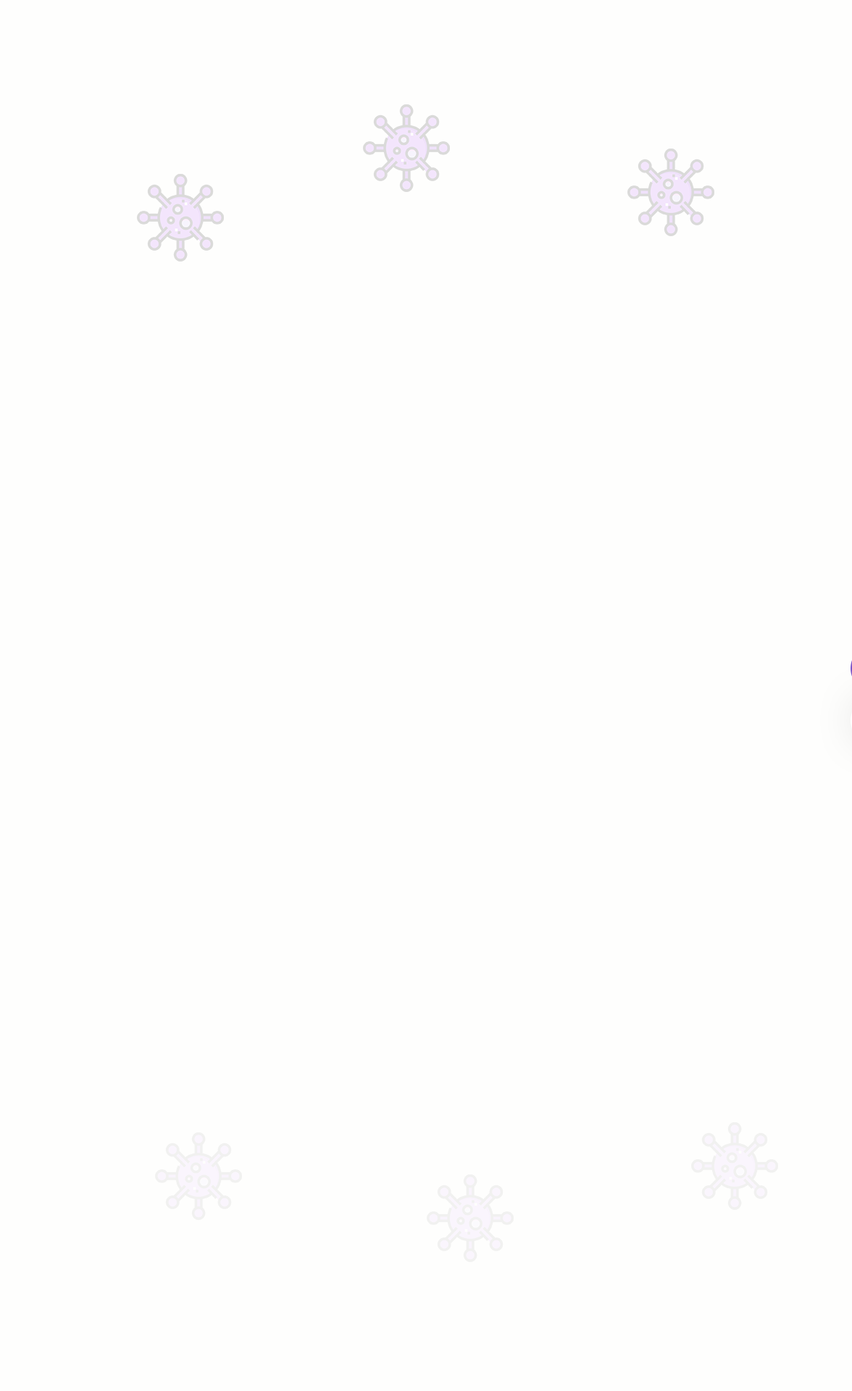
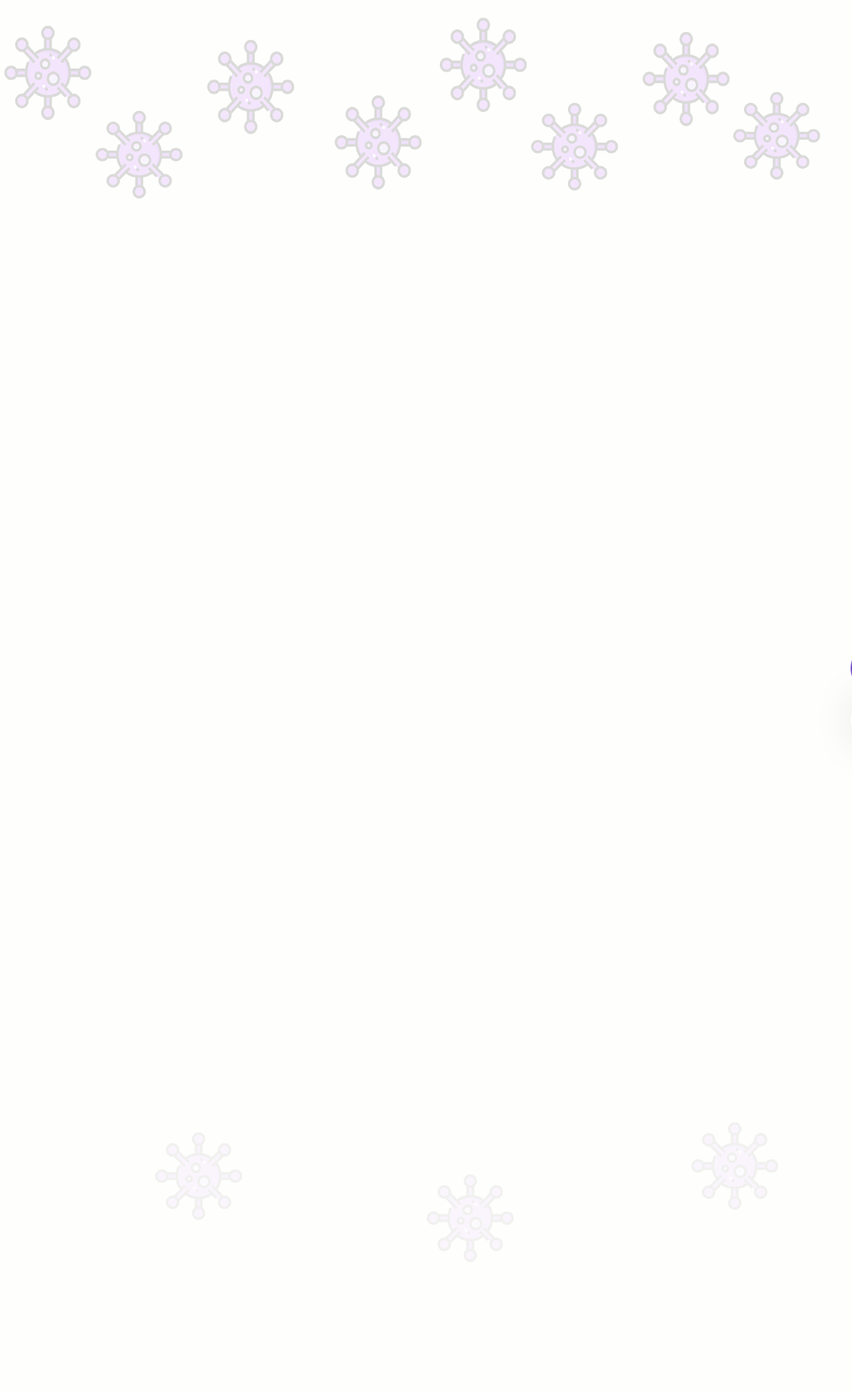
change background etc.

diff --git a/dist/sw.js b/dist/sw.js
@@ -1,1 +1,1 @@
-!function(e){var r={};function t(n){if(r[n])return r[n].exports;var o=r[n]={i:n,l:!1,exports:{}};return e[n].call(o.exports,o,o.exports,t),o.l=!0,o.exports}t.m=e,t.c=r,t.d=function(e,r,n){t.o(e,r)||Object.defineProperty(e,r,{enumerable:!0,get:n})},t.r=function(e){"undefined"!=typeof Symbol&&Symbol.toStringTag&&Object.defineProperty(e,Symbol.toStringTag,{value:"Module"}),Object.defineProperty(e,"__esModule",{value:!0})},t.t=function(e,r){if(1&r&&(e=t(e)),8&r)return e;if(4&r&&"object"==typeof e&&e&&e.__esModule)return e;var n=Object.create(null);if(t.r(n),Object.defineProperty(n,"default",{enumerable:!0,value:e}),2&r&&"string"!=typeof e)for(var o in e)t.d(n,o,function(r){return e[r]}.bind(null,o));return n},t.n=function(e){var r=e&&e.__esModule?function(){return e.default}:function(){return e};return t.d(r,"a",r),r},t.o=function(e,r){return Object.prototype.hasOwnProperty.call(e,r)},t.p="",t(t.s=0)}([function(e,r){"workbox"in self&&workbox.precaching.precacheAndRoute([{'revision':'e9ff9d0320f7a036a8ff0b5df3efd935','url':'1.js'},{'revision':'b1f549aff7d8498abda0363206ac23c2','url':'2.js'},{'revision':'3ea5ccfa243b6e74066d1299b17ecc9b','url':'3.js'},{'revision':'daf22f2c82bd36fa13f0e3fe9b8be51d','url':'css/styles.css'},{'revision':'bd551f56ce2be3eba2812e605ab4f5b2','url':'css/x/bootstrap.css'},{'revision':'f7245521b4bfad97e8404de1525a6f05','url':'css/x/responsive.css'},{'revision':'edff85f6d0238357f6a824ae19991203','url':'css/x/style.css'},{'revision':'3d9323df26240d7ff6c3507a8c037deb','url':'data/blogdata.json'},{'revision':'8a58be594bb1e7dded347d420a0790d9','url':'data/faq.json'},{'revision':'a38c8dbb4e1c737807290f852644129e','url':'data/schedule.json'},{'revision':'85bfe6f80f89775d91782b6edd6c2ce8','url':'data/speakers.json'},{'revision':'ca5f383d547ed33b2fcbf8de8939214b','url':'data/videosdata.json'},{'revision':'8dcb323d5e8005a21153de265e68a318','url':'img/bg/bug-stripe-horz-bg.png'},{'revision':'6e9f5617b716a9fd78fd1a185a55ec88','url':'img/bg/news-bg.png'},{'revision':'4c5c01e71b85820d4b2a4fd65285de25','url':'img/bg/paper.gif'},{'revision':'d8219b40840dcd5b61d71afb30afa626','url':'img/bloggers/WikiAtlas_Ganesh_Arun_Planemad.jpg'},{'revision':'30e99902937cace23bcceacc88a9f0ef','url':'img/bloggers/WikiAtlas_Lopez_Edouard_Lyhana8.png'},{'revision':'917a6eaff2ce46cb52988c7afb7b9aba','url':'img/bloggers/WikiAtlas_Lopez_Hugo_Yug.png'},{'revision':'0d4fa928386b14974bf7513677278ef5','url':'img/icons/favicon.png'},{'revision':'2e7327d709d72dcadb463772466a5eee','url':'img/icons/icon-1024x1024.png'},{'revision':'34ad0fa20eb37378acaa4e978a114854','url':'img/icons/icon-128x128.png'},{'revision':'185ed67f84fbe116423eeecde5507a59','url':'img/icons/icon-144x144.png'},{'revision':'6ce106dc33b9e06bc44cf4467193f9b7','url':'img/icons/icon-152x152.png'},{'revision':'d98f272e437f181a8e4a495fd70b35f1','url':'img/icons/icon-192x192.png'},{'revision':'a9ad438b6ee1a417636e115838954923','url':'img/icons/icon-384x384.png'},{'revision':'2fdbfe87de17fd61fbd737682140aba4','url':'img/icons/icon-512x512.png'},{'revision':'f5c850fb7799776c8a82d33ab03505a5','url':'img/icons/icon-72x72.png'},{'revision':'1b7bab36fe7ab88660465b3bedcbfa05','url':'img/icons/icon-96x96.png'},{'revision':'556e9ff845b7dd0c62dcdbbb00babb4b','url':'img/icons/loading.gif'},{'revision':'9c38962dcce6776be2cfb827ed13e4ea','url':'img/icons/logo.png'},{'revision':'37589698c4e74e6f371d25d01056f76e','url':'img/speakers/andy-crawford.jpg'},{'revision':'dafb95cd12b59752606f082683700cc7','url':'img/speakers/brooke-singh.jpg'},{'revision':'dc02fe7e25e7f0e28a4dd628d573ad52','url':'img/speakers/clara-wilson.jpg'},{'revision':'73504359b8894fe4614c3d2221ed25ec','url':'img/speakers/lauri-erkkila.jpg'},{'revision':'32a92aa7b07407faf9df10ece7dc3f4f','url':'img/speakers/liam-ramirez.jpg'},{'revision':'b0030813aa706d6fec4c6220454bbeac','url':'img/speakers/melissa-de-sousa.jpg'},{'revision':'b2fce1543a6073a92e7c43755760ec91','url':'img/speakers/nino-durand.jpg'},{'revision':'b1566bee0ab3959050f638b8c3079c50','url':'img/speakers/trinita-rodrigues.jpg'},{'revision':'2b79786aefbe8c03d5247fa2bb89e176','url':'index.html'},{'revision':'3f2e7784bae77f33b0e3c15fc5b1bf1c','url':'js/app.js'},{'revision':'0a6e846b954e345951e710cd6ce3440e','url':'js/jquery-2.0.3.min.js'},{'revision':'304d4308252ecd0e472c26eb2c6e8139','url':'js/utility.js'},{'revision':'7f827fe484ec04346553202782b0664b','url':'js/x/bootstrap.js'},{'revision':'6fa979718eaf37bf49e9d655f8bad1b5','url':'js/x/custom.js'},{'revision':'2f772fed444d5489079f275bd01e26cc','url':'js/x/jquery-3.4.1.min.js'},{'revision':'7ccd20f9038b7a699cf3f0984b189837','url':'main.css'},{'revision':'ee4c132862b69e8171a4ab88e039ec5e','url':'main.js'},{'revision':'4f691bbd7834b3a3b066b6d4c7b8c177','url':'manifest.webmanifest'},{'revision':'562d0fbc57e7fde465091e0f3ebaa792','url':'pages/about.html'},{'revision':'f3baba19dd917b8c5d447df2f7035cf6','url':'pages/arabic.html'},{'revision':'fc850defb5b85d18f91160cd9c095397','url':'pages/blog-old.html'},{'revision':'e8b12c3c146a096241f5f3aa3aeab114','url':'pages/blog.html'},{'revision':'aa614623c526e39c996f4bce161f35f7','url':'pages/blognew.html'},{'revision':'424a576c82faaab5ef5ff98794b84e0a','url':'pages/code-of-conduct.html'},{'revision':'19ed384ef5a110687c04ca0f8ecbb552','url':'pages/code-of-conduct.js'},{'revision':'ee6278c59f765a91de9c0bc6463b4336','url':'pages/contact.html'},{'revision':'c4eb2cc73946d021bc1aeaae6c2fc56c','url':'pages/embed.html'},{'revision':'d41d8cd98f00b204e9800998ecf8427e','url':'pages/embed.js'},{'revision':'bcdcec4df4acb46a457bc75f791409e9','url':'pages/httpweb.html'},{'revision':'d41d8cd98f00b204e9800998ecf8427e','url':'pages/httpweb.js'},{'revision':'31459790a69ecb9a6f53e89d2ee4fd9c','url':'pages/news.html'},{'revision':'9c8e7606e689ab44249b32ba1b51f08a','url':'pages/news.js'},{'revision':'5f2615c697b082a52ab3c1a326e88453','url':'pages/resources.html'},{'revision':'11b772cddf9b316dc84ba29ee6c9d356','url':'pages/schedule.html'},{'revision':'ffa296c9e2828e9f43bbbeca1c4692c8','url':'pages/schedule.js'},{'revision':'5b38e6c4768aeef35bf62956af934e8b','url':'pages/speakers.html'},{'revision':'dd259011780a19e98663c80a2bb61bb4','url':'pages/speakers.js'},{'revision':'85bfe6f80f89775d91782b6edd6c2ce8','url':'pages/speakers.json'},{'revision':'2ad94f0b18796055a07abee7a9807f94','url':'qafco/New-QP-Annex-Clinic-in-MIC.pdf'},{'revision':'6078cba531c50201259a64e2e018184a','url':'qafco/Opening-of-Frontline-clinic-in-MES-RasLaffan-for-COVID-19.pdf'},{'revision':'b455d0566579971964ac99b081bea007','url':'qafco/POSTER-COVID-19-5-TIPS.png'}])}]);
+!function(e){var r={};function t(n){if(r[n])return r[n].exports;var o=r[n]={i:n,l:!1,exports:{}};return e[n].call(o.exports,o,o.exports,t),o.l=!0,o.exports}t.m=e,t.c=r,t.d=function(e,r,n){t.o(e,r)||Object.defineProperty(e,r,{enumerable:!0,get:n})},t.r=function(e){"undefined"!=typeof Symbol&&Symbol.toStringTag&&Object.defineProperty(e,Symbol.toStringTag,{value:"Module"}),Object.defineProperty(e,"__esModule",{value:!0})},t.t=function(e,r){if(1&r&&(e=t(e)),8&r)return e;if(4&r&&"object"==typeof e&&e&&e.__esModule)return e;var n=Object.create(null);if(t.r(n),Object.defineProperty(n,"default",{enumerable:!0,value:e}),2&r&&"string"!=typeof e)for(var o in e)t.d(n,o,function(r){return e[r]}.bind(null,o));return n},t.n=function(e){var r=e&&e.__esModule?function(){return e.default}:function(){return e};return t.d(r,"a",r),r},t.o=function(e,r){return Object.prototype.hasOwnProperty.call(e,r)},t.p="",t(t.s=0)}([function(e,r){"workbox"in self&&workbox.precaching.precacheAndRoute([{'revision':'9224be4670d344b1c73cad817d5e60a4','url':'1.js'},{'revision':'b1f549aff7d8498abda0363206ac23c2','url':'2.js'},{'revision':'3ea5ccfa243b6e74066d1299b17ecc9b','url':'3.js'},{'revision':'87e734afce51564980aa0994705a6674','url':'css/styles.css'},{'revision':'bd551f56ce2be3eba2812e605ab4f5b2','url':'css/x/bootstrap.css'},{'revision':'f7245521b4bfad97e8404de1525a6f05','url':'css/x/responsive.css'},{'revision':'edff85f6d0238357f6a824ae19991203','url':'css/x/style.css'},{'revision':'3d9323df26240d7ff6c3507a8c037deb','url':'data/blogdata.json'},{'revision':'0f0b5cbf39e1e9070aeba4fc795cd382','url':'data/faq.json'},{'revision':'a38c8dbb4e1c737807290f852644129e','url':'data/schedule.json'},{'revision':'85bfe6f80f89775d91782b6edd6c2ce8','url':'data/speakers.json'},{'revision':'ca5f383d547ed33b2fcbf8de8939214b','url':'data/videosdata.json'},{'revision':'40ef2e72233e461949c4e517b4da785f','url':'img/bg/bug-stripe-horz-bg.png'},{'revision':'e6804cf82c74354114c3b48e6850ff39','url':'img/bg/news-bg.png'},{'revision':'4c5c01e71b85820d4b2a4fd65285de25','url':'img/bg/paper.gif'},{'revision':'d8219b40840dcd5b61d71afb30afa626','url':'img/bloggers/WikiAtlas_Ganesh_Arun_Planemad.jpg'},{'revision':'30e99902937cace23bcceacc88a9f0ef','url':'img/bloggers/WikiAtlas_Lopez_Edouard_Lyhana8.png'},{'revision':'917a6eaff2ce46cb52988c7afb7b9aba','url':'img/bloggers/WikiAtlas_Lopez_Hugo_Yug.png'},{'revision':'0d4fa928386b14974bf7513677278ef5','url':'img/icons/favicon.png'},{'revision':'2e7327d709d72dcadb463772466a5eee','url':'img/icons/icon-1024x1024.png'},{'revision':'34ad0fa20eb37378acaa4e978a114854','url':'img/icons/icon-128x128.png'},{'revision':'185ed67f84fbe116423eeecde5507a59','url':'img/icons/icon-144x144.png'},{'revision':'6ce106dc33b9e06bc44cf4467193f9b7','url':'img/icons/icon-152x152.png'},{'revision':'d98f272e437f181a8e4a495fd70b35f1','url':'img/icons/icon-192x192.png'},{'revision':'a9ad438b6ee1a417636e115838954923','url':'img/icons/icon-384x384.png'},{'revision':'2fdbfe87de17fd61fbd737682140aba4','url':'img/icons/icon-512x512.png'},{'revision':'f5c850fb7799776c8a82d33ab03505a5','url':'img/icons/icon-72x72.png'},{'revision':'1b7bab36fe7ab88660465b3bedcbfa05','url':'img/icons/icon-96x96.png'},{'revision':'556e9ff845b7dd0c62dcdbbb00babb4b','url':'img/icons/loading.gif'},{'revision':'9c38962dcce6776be2cfb827ed13e4ea','url':'img/icons/logo.png'},{'revision':'37589698c4e74e6f371d25d01056f76e','url':'img/speakers/andy-crawford.jpg'},{'revision':'dafb95cd12b59752606f082683700cc7','url':'img/speakers/brooke-singh.jpg'},{'revision':'dc02fe7e25e7f0e28a4dd628d573ad52','url':'img/speakers/clara-wilson.jpg'},{'revision':'73504359b8894fe4614c3d2221ed25ec','url':'img/speakers/lauri-erkkila.jpg'},{'revision':'32a92aa7b07407faf9df10ece7dc3f4f','url':'img/speakers/liam-ramirez.jpg'},{'revision':'b0030813aa706d6fec4c6220454bbeac','url':'img/speakers/melissa-de-sousa.jpg'},{'revision':'b2fce1543a6073a92e7c43755760ec91','url':'img/speakers/nino-durand.jpg'},{'revision':'b1566bee0ab3959050f638b8c3079c50','url':'img/speakers/trinita-rodrigues.jpg'},{'revision':'7bbb94678c2b31297563395c6c7022cd','url':'index.html'},{'revision':'3f2e7784bae77f33b0e3c15fc5b1bf1c','url':'js/app.js'},{'revision':'0a6e846b954e345951e710cd6ce3440e','url':'js/jquery-2.0.3.min.js'},{'revision':'304d4308252ecd0e472c26eb2c6e8139','url':'js/utility.js'},{'revision':'7f827fe484ec04346553202782b0664b','url':'js/x/bootstrap.js'},{'revision':'6fa979718eaf37bf49e9d655f8bad1b5','url':'js/x/custom.js'},{'revision':'2f772fed444d5489079f275bd01e26cc','url':'js/x/jquery-3.4.1.min.js'},{'revision':'ce0f6dc0b103262ae096a5ff170a61fa','url':'main.css'},{'revision':'d7d3ae0dba03d76eee977886d062dbf2','url':'main.js'},{'revision':'4f691bbd7834b3a3b066b6d4c7b8c177','url':'manifest.webmanifest'},{'revision':'562d0fbc57e7fde465091e0f3ebaa792','url':'pages/about.html'},{'revision':'f3baba19dd917b8c5d447df2f7035cf6','url':'pages/arabic.html'},{'revision':'fc850defb5b85d18f91160cd9c095397','url':'pages/blog-old.html'},{'revision':'e8b12c3c146a096241f5f3aa3aeab114','url':'pages/blog.html'},{'revision':'aa614623c526e39c996f4bce161f35f7','url':'pages/blognew.html'},{'revision':'424a576c82faaab5ef5ff98794b84e0a','url':'pages/code-of-conduct.html'},{'revision':'19ed384ef5a110687c04ca0f8ecbb552','url':'pages/code-of-conduct.js'},{'revision':'ee6278c59f765a91de9c0bc6463b4336','url':'pages/contact.html'},{'revision':'c4eb2cc73946d021bc1aeaae6c2fc56c','url':'pages/embed.html'},{'revision':'d41d8cd98f00b204e9800998ecf8427e','url':'pages/embed.js'},{'revision':'bcdcec4df4acb46a457bc75f791409e9','url':'pages/httpweb.html'},{'revision':'d41d8cd98f00b204e9800998ecf8427e','url':'pages/httpweb.js'},{'revision':'4de92e64650f56bf7c93948f822c1b55','url':'pages/news.html'},{'revision':'28a8fe5c4ea91ad296519ded4c200287','url':'pages/news.js'},{'revision':'1a66d23c59fea71152313975fd84e6f6','url':'pages/resources.html'},{'revision':'11b772cddf9b316dc84ba29ee6c9d356','url':'pages/schedule.html'},{'revision':'ffa296c9e2828e9f43bbbeca1c4692c8','url':'pages/schedule.js'},{'revision':'5b38e6c4768aeef35bf62956af934e8b','url':'pages/speakers.html'},{'revision':'dd259011780a19e98663c80a2bb61bb4','url':'pages/speakers.js'},{'revision':'85bfe6f80f89775d91782b6edd6c2ce8','url':'pages/speakers.json'},{'revision':'2ad94f0b18796055a07abee7a9807f94','url':'qafco/New-QP-Annex-Clinic-in-MIC.pdf'},{'revision':'6078cba531c50201259a64e2e018184a','url':'qafco/Opening-of-Frontline-clinic-in-MES-RasLaffan-for-COVID-19.pdf'},{'revision':'b455d0566579971964ac99b081bea007','url':'qafco/POSTER-COVID-19-5-TIPS.png'}])}]);

diff --git a/dist/main.js b/dist/main.js
@@ -1,1 +1,1 @@
-!function(e){function t(t){for(var r,i,o=t[0],s=t[1],a=0,l=[];a<o.length;a++)i=o[a],Object.prototype.hasOwnProperty.call(n,i)&&n[i]&&l.push(n[i][0]),n[i]=0;for(r in s)Object.prototype.hasOwnProperty.call(s,r)&&(e[r]=s[r]);for(c&&c(t);l.length;)l.shift()()}var r={},n={0:0};function i(t){if(r[t])return r[t].exports;var n=r[t]={i:t,l:!1,exports:{}};return e[t].call(n.exports,n,n.exports,i),n.l=!0,n.exports}i.e=function(e){var t=[],r=n[e];if(0!==r)if(r)t.push(r[2]);else{var o=new Promise((function(t,i){r=n[e]=[t,i]}));t.push(r[2]=o);var s,a=document.createElement("script");a.charset="utf-8",a.timeout=120,i.nc&&a.setAttribute("nonce",i.nc),a.src=function(e){return i.p+""+({}[e]||e)+".js"}(e);var c=new Error;s=function(t){a.onerror=a.onload=null,clearTimeout(l);var r=n[e];if(0!==r){if(r){var i=t&&("load"===t.type?"missing":t.type),o=t&&t.target&&t.target.src;c.message="Loading chunk "+e+" failed.\n("+i+": "+o+")",c.name="ChunkLoadError",c.type=i,c.request=o,r[1](c)}n[e]=void 0}};var l=setTimeout((function(){s({type:"timeout",target:a})}),12e4);a.onerror=a.onload=s,document.head.appendChild(a)}return Promise.all(t)},i.m=e,i.c=r,i.d=function(e,t,r){i.o(e,t)||Object.defineProperty(e,t,{enumerable:!0,get:r})},i.r=function(e){"undefined"!=typeof Symbol&&Symbol.toStringTag&&Object.defineProperty(e,Symbol.toStringTag,{value:"Module"}),Object.defineProperty(e,"__esModule",{value:!0})},i.t=function(e,t){if(1&t&&(e=i(e)),8&t)return e;if(4&t&&"object"==typeof e&&e&&e.__esModule)return e;var r=Object.create(null);if(i.r(r),Object.defineProperty(r,"default",{enumerable:!0,value:e}),2&t&&"string"!=typeof e)for(var n in e)i.d(r,n,function(t){return e[t]}.bind(null,n));return r},i.n=function(e){var t=e&&e.__esModule?function(){return e.default}:function(){return e};return i.d(t,"a",t),t},i.o=function(e,t){return Object.prototype.hasOwnProperty.call(e,t)},i.p="",i.oe=function(e){throw console.error(e),e};var o=window.webpackJsonp=window.webpackJsonp||[],s=o.push.bind(o);o.push=t,o=o.slice();for(var a=0;a<o.length;a++)t(o[a]);var c=s;i(i.s=0)}([function(e,t,r){"use strict";r.r(t);r(1);class n{constructor(){this.speakersDiv=document.querySelector(".speakers"),this.scheduleDiv=document.querySelector(".schedule"),this.faqDiv=document.querySelector(".faq"),this.init()}async init(){await this.loadSpeakers(),this.loadSchedule(),this.loadFaq(),document.querySelector("#speakers").style.display="none",document.querySelector("#schedule").style.display="none",document.querySelector("#code-of-conduct").style.display="none",document.querySelector("#videos").style.display="none",document.querySelector("#faq").style.display="none",document.querySelector("#resources").style.display="none",document.querySelector("#about").style.display="none",this.registerSW()}async loadSpeakers(){this.speakers=(await r.e(3).then(r.t.bind(null,2,3))).default,this.speakersDiv.innerHTML=this.speakers.map(this.toSpeakerBlock).join("\n")}async loadSchedule(){const e=(await r.e(2).then(r.t.bind(null,3,3))).default;this.schedule=e.map(this.addSpeakerDetails,this),this.scheduleDiv.innerHTML=this.schedule.map(this.toScheduleBlock).join("\n")}async loadFaq(){const e=(await r.e(1).then(r.t.bind(null,4,3))).default;this.faq=e.map(this.addSpeakerDetails,this),this.faqDiv.innerHTML=this.faq.map(this.toScheduleBlock).join("\n")}toSpeakerBlock(e){return`\n        <div class="speaker">\n          <img src="${e.picture}" alt="${e.name}">\n          <div>${e.name}</div>\n        </div>`}toScheduleBlock(e){return`\n      <div class="schedule-item ${e.category}">\n        <div class="title-and-time">\n          <div class="time">${e.startTime}</div>\n          <div class="title-and-speaker">\n            <div class="title">${e.title}</div>\n            <div class="speaker">${e.speaker?e.speaker.name:"&nbsp;"}</div>\n          </div>\n        </div>\n        <p class="description">${e.description}</p>\n      </div>\n    `}addSpeakerDetails(e){return e.speakerId?Object.assign({},e,{speaker:this.speakers.find(t=>t.id===e.speakerId)}):Object.assign({},e)}async registerSW(){if("serviceWorker"in navigator)try{await navigator.serviceWorker.register("./sw.js")}catch(e){alert("ServiceWorker registration failed. Sorry about that.")}else document.querySelector(".alert").removeAttribute("hidden")}}window.addEventListener("load",e=>{new n})},function(e,t,r){}]);
+!function(e){function t(t){for(var n,i,s=t[0],a=t[1],o=0,c=[];o<s.length;o++)i=s[o],Object.prototype.hasOwnProperty.call(r,i)&&r[i]&&c.push(r[i][0]),r[i]=0;for(n in a)Object.prototype.hasOwnProperty.call(a,n)&&(e[n]=a[n]);for(l&&l(t);c.length;)c.shift()()}var n={},r={0:0};function i(t){if(n[t])return n[t].exports;var r=n[t]={i:t,l:!1,exports:{}};return e[t].call(r.exports,r,r.exports,i),r.l=!0,r.exports}i.e=function(e){var t=[],n=r[e];if(0!==n)if(n)t.push(n[2]);else{var s=new Promise((function(t,i){n=r[e]=[t,i]}));t.push(n[2]=s);var a,o=document.createElement("script");o.charset="utf-8",o.timeout=120,i.nc&&o.setAttribute("nonce",i.nc),o.src=function(e){return i.p+""+({}[e]||e)+".js"}(e);var l=new Error;a=function(t){o.onerror=o.onload=null,clearTimeout(c);var n=r[e];if(0!==n){if(n){var i=t&&("load"===t.type?"missing":t.type),s=t&&t.target&&t.target.src;l.message="Loading chunk "+e+" failed.\n("+i+": "+s+")",l.name="ChunkLoadError",l.type=i,l.request=s,n[1](l)}r[e]=void 0}};var c=setTimeout((function(){a({type:"timeout",target:o})}),12e4);o.onerror=o.onload=a,document.head.appendChild(o)}return Promise.all(t)},i.m=e,i.c=n,i.d=function(e,t,n){i.o(e,t)||Object.defineProperty(e,t,{enumerable:!0,get:n})},i.r=function(e){"undefined"!=typeof Symbol&&Symbol.toStringTag&&Object.defineProperty(e,Symbol.toStringTag,{value:"Module"}),Object.defineProperty(e,"__esModule",{value:!0})},i.t=function(e,t){if(1&t&&(e=i(e)),8&t)return e;if(4&t&&"object"==typeof e&&e&&e.__esModule)return e;var n=Object.create(null);if(i.r(n),Object.defineProperty(n,"default",{enumerable:!0,value:e}),2&t&&"string"!=typeof e)for(var r in e)i.d(n,r,function(t){return e[t]}.bind(null,r));return n},i.n=function(e){var t=e&&e.__esModule?function(){return e.default}:function(){return e};return i.d(t,"a",t),t},i.o=function(e,t){return Object.prototype.hasOwnProperty.call(e,t)},i.p="",i.oe=function(e){throw console.error(e),e};var s=window.webpackJsonp=window.webpackJsonp||[],a=s.push.bind(s);s.push=t,s=s.slice();for(var o=0;o<s.length;o++)t(s[o]);var l=a;i(i.s=0)}([function(e,t,n){"use strict";n.r(t);n(1);class r{constructor(){this.speakersDiv=document.querySelector(".speakers"),this.scheduleDiv=document.querySelector(".schedule"),this.faqDiv=document.querySelector(".faq"),this.init()}async init(){await this.loadSpeakers(),this.loadSchedule(),this.loadFaq(),document.querySelector("#speakers").style.display="none",document.querySelector("#schedule").style.display="none",document.querySelector("#code-of-conduct").style.display="none",document.querySelector("#videos").style.display="none",document.querySelector("#faq").style.display="none",document.querySelector("#resources").style.display="none",document.querySelector("#about").style.display="none",this.registerSW()}async loadSpeakers(){this.speakers=(await n.e(3).then(n.t.bind(null,2,3))).default,this.speakersDiv.innerHTML=this.speakers.map(this.toSpeakerBlock).join("\n")}async loadSchedule(){const e=(await n.e(2).then(n.t.bind(null,3,3))).default;this.schedule=e.map(this.addSpeakerDetails,this),this.scheduleDiv.innerHTML=this.schedule.map(this.toScheduleBlock).join("\n")}async loadFaq(){const e=(await n.e(1).then(n.t.bind(null,4,3))).default;this.faq=e.map(this.addSpeakerDetails,this),this.faqDiv.innerHTML=this.faq.map(this.toFaqBlock).join("\n")}toFaqBlock(e){return`\n      <div class="schedule-item ${e.category}">\n        <div class="title-and-time">\n          <div class="faqnumber">${e.faqNum}</div>\n          <div class="title-and-speaker">\n            <div class="title">${e.title}</div>\n            <div class="speaker">${e.speaker?e.speaker.name:"&nbsp;"}</div>\n          </div>\n        </div>\n        <p class="description">${e.description}</p>\n      </div>\n    `}toSpeakerBlock(e){return`\n        <div class="speaker">\n          <img src="${e.picture}" alt="${e.name}">\n          <div>${e.name}</div>\n        </div>`}toScheduleBlock(e){return`\n      <div class="schedule-item ${e.category}">\n        <div class="title-and-time">\n          <div class="time">${e.startTime}</div>\n          <div class="title-and-speaker">\n            <div class="title">${e.title}</div>\n            <div class="speaker">${e.speaker?e.speaker.name:"&nbsp;"}</div>\n          </div>\n        </div>\n        <p class="description">${e.description}</p>\n      </div>\n    `}addSpeakerDetails(e){return e.speakerId?Object.assign({},e,{speaker:this.speakers.find(t=>t.id===e.speakerId)}):Object.assign({},e)}async registerSW(){if("serviceWorker"in navigator)try{await navigator.serviceWorker.register("./sw.js")}catch(e){alert("ServiceWorker registration failed. Sorry about that.")}else document.querySelector(".alert").removeAttribute("hidden")}}window.addEventListener("load",e=>{new r})},function(e,t,n){}]);

diff --git a/dist/1.js b/dist/1.js
@@ -1,1 +1,1 @@
-(window.webpackJsonp=window.webpackJsonp||[]).push([[1],{4:function(e){e.exports=JSON.parse('[{"title":"What is COVID-19?","description":"Coronavirus disease (COVID-19) is an infectious disease caused by a new virus.The disease causes respiratory illness (like the flu) with symptoms such as a cough, fever, and in more severe cases, difficulty breathing.","startTime":"001","speakerId":"","category":"presentation"},{"title":"What are its symptoms?","description":"The disease causes respiratory illness (like the flu) with symptoms such as a cough, fever, and in more severe cases, difficulty breathing.","startTime":"002","speakerId":"","category":"break"},{"title":"How can you protect yourself?","description":"You can protect yourself by washing your hands frequently, avoiding touching your face, and avoiding close contact (1 meter or 3 feet) with people who are unwell.","startTime":"003","category":"presentation"},{"title":"How is it spread?","description":"Coronavirus disease spreads primarily through contact with an infected person when they cough or sneeze. It also spreads when a person touches a surface or object that has the virus on it, then touches their eyes, nose, or mouth.","startTime":"004","speakerId":"","category":"break"},{"title":"How long does the coronavirus last on surfaces?","description":"It is not certain how long the virus that causes COVID-19 survives on surfaces, but it seems to behave like other coronaviruses. Studies suggest that coronaviruses (including preliminary information on the COVID-19 virus) may persist on surfaces for a few hours or up to several days.","startTime":"005","category":"presentation"},{"title":"Can the coronavirus disease spread through air?","description":"The virus that causes COVID-19 is mainly transmitted through droplets generated when an infected person coughs, sneezes, or speaks. These droplets are too heavy to hang in the air. They quickly fall on floors or surfaces. You can be infected by breathing in the virus if you are within 1 metre of a person who has COVID-19, or by touching a contaminated surface and then touching your eyes, nose or mouth before washing your hands","startTime":"006","category":"break"},{"title":"Is the coronavirus disease the same as SARS?","description":"No. The virus that causes COVID-19 and the one that caused the outbreak of Severe Acute Respiratory Syndrome (SARS) in 2003 are related to each other genetically, but the diseases they cause are quite different.","startTime":"007","category":"presentation"}]')}}]);
+(window.webpackJsonp=window.webpackJsonp||[]).push([[1],{4:function(e){e.exports=JSON.parse('[{"title":"What is COVID-19?","description":"Coronavirus disease (COVID-19) is an infectious disease caused by a new virus.The disease causes respiratory illness (like the flu) with symptoms such as a cough, fever, and in more severe cases, difficulty breathing.","faqNum":"201","speakerId":"","category":"presentation"},{"title":"What are its symptoms?","description":"The disease causes respiratory illness (like the flu) with symptoms such as a cough, fever, and in more severe cases, difficulty breathing.","faqNum":"202","speakerId":"","category":"break"},{"title":"How can you protect yourself?","description":"You can protect yourself by washing your hands frequently, avoiding touching your face, and avoiding close contact (1 meter or 3 feet) with people who are unwell.","faqNum":"003","category":"presentation"},{"title":"How is it spread?","description":"Coronavirus disease spreads primarily through contact with an infected person when they cough or sneeze. It also spreads when a person touches a surface or object that has the virus on it, then touches their eyes, nose, or mouth.","faqNum":"004","speakerId":"","category":"break"},{"title":"How long does the coronavirus last on surfaces?","description":"It is not certain how long the virus that causes COVID-19 survives on surfaces, but it seems to behave like other coronaviruses. Studies suggest that coronaviruses (including preliminary information on the COVID-19 virus) may persist on surfaces for a few hours or up to several days.","faqNum":"005","category":"presentation"},{"title":"Can the coronavirus disease spread through air?","description":"The virus that causes COVID-19 is mainly transmitted through droplets generated when an infected person coughs, sneezes, or speaks. These droplets are too heavy to hang in the air. They quickly fall on floors or surfaces. You can be infected by breathing in the virus if you are within 1 metre of a person who has COVID-19, or by touching a contaminated surface and then touching your eyes, nose or mouth before washing your hands","faqNum":"006","category":"break"},{"title":"Is the coronavirus disease the same as SARS?","description":"No. The virus that causes COVID-19 and the one that caused the outbreak of Severe Acute Respiratory Syndrome (SARS) in 2003 are related to each other genetically, but the diseases they cause are quite different.","faqNum":"007","category":"presentation"}]')}}]);

diff --git a/dist/index.html b/dist/index.html
@@ -5,7 +5,7 @@
     <meta name="viewport" content="width=device-width, initial-scale=1.0" />
     <meta http-equiv="X-UA-Compatible" content="ie=edge" />
 
-    <title>QUILLConf</title>
+    <title>COVID-19</title>
 
     <link rel="manifest" href="./manifest.webmanifest" />
 
@@ -58,6 +58,7 @@
       body {
         background-image: url('../img/bg/bug-stripe-horz-bg.png');
         background-position: 0px 0px; 
+        background-blend-mode: lighten;
       }
     </style>
 
@@ -159,13 +160,13 @@
         </div>
 
         <p>
-          <a href="https://www.moph.gov.qa/english/Pages/Coronavirus2019.aspx">
-            COVID-19  [English]  </a>
+          <a class="fa fa-link mr-3" href="https://www.moph.gov.qa/english/Pages/Coronavirus2019.aspx">
+             COVID-19  <b>[English]</b>  </a>
           <a href="https://www.moph.gov.qa/arabic/Pages/Coronavirus2019.aspx">
-            [Arabic]</a><br/><br/>
+            <b>[عربي]</b></a><br/><br/>
 
-          <a href="https://www.moph.gov.qa/english/Documents/english/howtoprotectfromcoviden.pdf" target="_blank">How To Protect From Covid-19</a><br/><br/>
-          <a href="https://www.moph.gov.qa/english/Documents/english/10_WAYS_en.pdf" target="_blank">10 Ways to make the most of your time</a>
+          <a class="fa fa-link mr-3" href="https://www.moph.gov.qa/english/Documents/english/howtoprotectfromcoviden.pdf" target="_blank"> How To Protect From Covid-19</a><br/><br/>
+          <a class="fa fa-link mr-3" href="https://www.moph.gov.qa/english/Documents/english/10_WAYS_en.pdf" target="_blank"> 10 Ways to make the most of your time</a>
         </p>
 
         <div class="divTitle">
@@ -173,11 +174,11 @@
         </div>
 
         <p>
-          <a href="https://www.who.int" target="_blank">World Health Organization (WHO)</a><br/><br/>
-          <a href="https://cdc.gov" target="_blank">Center for Disease Control (CDC US)</a><br/><br/>
-          <a href="https://gisanddata.maps.arcgis.com/apps/opsdashboard/index.html?link_uid=33#/bda7594740fd40299423467b48e9ecf6" target="_blank">John Hopkins</a><br/><br/>
-          <a href="https://ourworldindata.org/grapher/covid-confirmed-cases-since-100th-case" target="_blank">Our World in data</a><br/><br/>
-          <a href="https://www.worldometers.info/coronavirus/">Worldometers</a>
+          <a class="fa fa-link mr-3" href="https://www.who.int" target="_blank"> World Health Organization (WHO)</a><br/><br/>
+          <a class="fa fa-link mr-3" href="https://cdc.gov" target="_blank"> Center for Disease Control (CDC US)</a><br/><br/>
+          <a class="fa fa-link mr-3" href="https://gisanddata.maps.arcgis.com/apps/opsdashboard/index.html?link_uid=33#/bda7594740fd40299423467b48e9ecf6" target="_blank"> John Hopkins</a><br/><br/>
+          <a class="fa fa-link mr-3" href="https://ourworldindata.org/grapher/covid-confirmed-cases-since-100th-case" target="_blank"> Our World in data</a><br/><br/>
+          <a class="fa fa-link mr-3" href="https://www.worldometers.info/coronavirus/"> Worldometers</a>
         </p>   
 
         <div class="divTitle">
@@ -185,11 +186,11 @@
         </div>
 
           <p> 
-            <a href="./qafco/New-QP-Annex-Clinic-in-MIC.pdf" target="_blank">New QP Annex Clinic in MIC</a>
+            <a class="fa fa-link mr-3" href="./qafco/New-QP-Annex-Clinic-in-MIC.pdf" target="_blank"> New QP Annex Clinic in MIC</a>
             <br/><br/>
-            <a href="./qafco/POSTER-COVID-19-5-TIPS.png" target="_blank">5 Tips For Managing CIVID-19 Related Stress</a>
+            <a class="fa fa-link mr-3" href="./qafco/POSTER-COVID-19-5-TIPS.png" target="_blank"> 5 Tips For Managing CIVID-19 Related Stress</a>
             <br/><br/>
-            <a href="./qafco/Opening-of-Frontline-clinic-in-MES-RasLaffan-for-COVID-19.pdf" target="_blank">Opening of Frontline clinic in MES RasLaffan for COVID-19</a> 
+            <a class="fa fa-link mr-3" href="./qafco/Opening-of-Frontline-clinic-in-MES-RasLaffan-for-COVID-19.pdf" target="_blank"> Opening of Frontline clinic in MES RasLaffan for COVID-19</a> 
             <br/><br/>            
           <p>
 
@@ -208,7 +209,7 @@
 
       <section id="faq">
         <h3>Frequently Asked Questions</h3>
-        <p>Some commonly asked questions.</p>
+        <br/>
         <div class="faq"><div class="loader" hidden>Loading...</div></div>
       </section>      
 

diff --git a/src/index.html b/src/index.html
@@ -5,7 +5,7 @@
     <meta name="viewport" content="width=device-width, initial-scale=1.0" />
     <meta http-equiv="X-UA-Compatible" content="ie=edge" />
 
-    <title>QUILLConf</title>
+    <title>COVID-19</title>
 
     <link rel="manifest" href="./manifest.webmanifest" />
 
@@ -58,6 +58,7 @@
       body {
         background-image: url('../img/bg/bug-stripe-horz-bg.png');
         background-position: 0px 0px; 
+        background-blend-mode: lighten;
       }
     </style>
 
@@ -159,13 +160,13 @@
         </div>
 
         <p>
-          <a href="https://www.moph.gov.qa/english/Pages/Coronavirus2019.aspx">
-            COVID-19  [English]  </a>
+          <a class="fa fa-link mr-3" href="https://www.moph.gov.qa/english/Pages/Coronavirus2019.aspx">
+             COVID-19  <b>[English]</b>  </a>
           <a href="https://www.moph.gov.qa/arabic/Pages/Coronavirus2019.aspx">
-            [Arabic]</a><br/><br/>
+            <b>[عربي]</b></a><br/><br/>
 
-          <a href="https://www.moph.gov.qa/english/Documents/english/howtoprotectfromcoviden.pdf" target="_blank">How To Protect From Covid-19</a><br/><br/>
-          <a href="https://www.moph.gov.qa/english/Documents/english/10_WAYS_en.pdf" target="_blank">10 Ways to make the most of your time</a>
+          <a class="fa fa-link mr-3" href="https://www.moph.gov.qa/english/Documents/english/howtoprotectfromcoviden.pdf" target="_blank"> How To Protect From Covid-19</a><br/><br/>
+          <a class="fa fa-link mr-3" href="https://www.moph.gov.qa/english/Documents/english/10_WAYS_en.pdf" target="_blank"> 10 Ways to make the most of your time</a>
         </p>
 
         <div class="divTitle">
@@ -173,11 +174,11 @@
         </div>
 
         <p>
-          <a href="https://www.who.int" target="_blank">World Health Organization (WHO)</a><br/><br/>
-          <a href="https://cdc.gov" target="_blank">Center for Disease Control (CDC US)</a><br/><br/>
-          <a href="https://gisanddata.maps.arcgis.com/apps/opsdashboard/index.html?link_uid=33#/bda7594740fd40299423467b48e9ecf6" target="_blank">John Hopkins</a><br/><br/>
-          <a href="https://ourworldindata.org/grapher/covid-confirmed-cases-since-100th-case" target="_blank">Our World in data</a><br/><br/>
-          <a href="https://www.worldometers.info/coronavirus/">Worldometers</a>
+          <a class="fa fa-link mr-3" href="https://www.who.int" target="_blank"> World Health Organization (WHO)</a><br/><br/>
+          <a class="fa fa-link mr-3" href="https://cdc.gov" target="_blank"> Center for Disease Control (CDC US)</a><br/><br/>
+          <a class="fa fa-link mr-3" href="https://gisanddata.maps.arcgis.com/apps/opsdashboard/index.html?link_uid=33#/bda7594740fd40299423467b48e9ecf6" target="_blank"> John Hopkins</a><br/><br/>
+          <a class="fa fa-link mr-3" href="https://ourworldindata.org/grapher/covid-confirmed-cases-since-100th-case" target="_blank"> Our World in data</a><br/><br/>
+          <a class="fa fa-link mr-3" href="https://www.worldometers.info/coronavirus/"> Worldometers</a>
         </p>   
 
         <div class="divTitle">
@@ -185,11 +186,11 @@
         </div>
 
           <p> 
-            <a href="./qafco/New-QP-Annex-Clinic-in-MIC.pdf" target="_blank">New QP Annex Clinic in MIC</a>
+            <a class="fa fa-link mr-3" href="./qafco/New-QP-Annex-Clinic-in-MIC.pdf" target="_blank"> New QP Annex Clinic in MIC</a>
             <br/><br/>
-            <a href="./qafco/POSTER-COVID-19-5-TIPS.png" target="_blank">5 Tips For Managing CIVID-19 Related Stress</a>
+            <a class="fa fa-link mr-3" href="./qafco/POSTER-COVID-19-5-TIPS.png" target="_blank"> 5 Tips For Managing CIVID-19 Related Stress</a>
             <br/><br/>
-            <a href="./qafco/Opening-of-Frontline-clinic-in-MES-RasLaffan-for-COVID-19.pdf" target="_blank">Opening of Frontline clinic in MES RasLaffan for COVID-19</a> 
+            <a class="fa fa-link mr-3" href="./qafco/Opening-of-Frontline-clinic-in-MES-RasLaffan-for-COVID-19.pdf" target="_blank"> Opening of Frontline clinic in MES RasLaffan for COVID-19</a> 
             <br/><br/>            
           <p>
 
@@ -208,7 +209,7 @@
 
       <section id="faq">
         <h3>Frequently Asked Questions</h3>
-        <p>Some commonly asked questions.</p>
+        <br/>
         <div class="faq"><div class="loader" hidden>Loading...</div></div>
       </section>      
 

diff --git a/dist/pages/resources.html b/dist/pages/resources.html
@@ -4,7 +4,7 @@
     <meta charset="UTF-8" />
     <meta name="viewport" content="width=device-width, initial-scale=1.0" />
     <meta http-equiv="X-UA-Compatible" content="ie=edge" />
-    <title>PWAQuill</title>
+    <title>COVID-19</title>
 
     <link rel="stylesheet" href="https://www.w3schools.com/w3css/4/w3.css">
     <link rel="stylesheet" href="https://cdnjs.cloudflare.com/ajax/libs/font-awesome/4.7.0/css/font-awesome.min.css">
@@ -110,14 +110,14 @@
       </div>
 
       <p>
-        <a href="https://www.moph.gov.qa/english/Pages/Coronavirus2019.aspx"> 
-          COVID-19 [English]</a>
+        <a class="fa fa-link mr-3" href="https://www.moph.gov.qa/english/Pages/Coronavirus2019.aspx"> 
+          XXXX YYYY COVID-19 [English]</a>
 
         <a href="https://www.moph.gov.qa/arabic/Pages/Coronavirus2019.aspx"> [Arabic]</a><br/><br/>
 
-        <a href="https://www.moph.gov.qa/english/Documents/english/howtoprotectfromcoviden.pdf" target="_blank">How To Protect From Covid-19</a><br/><br/>
+        <a class="fa fa-link mr-3" href="https://www.moph.gov.qa/english/Documents/english/howtoprotectfromcoviden.pdf" target="_blank">How To Protect From Covid-19</a><br/><br/>
 
-        <a href="https://www.moph.gov.qa/english/Documents/english/10_WAYS_en.pdf" target="_blank">10 Ways</a><br/><br/>
+        <a class="fa fa-link mr-3" href="https://www.moph.gov.qa/english/Documents/english/10_WAYS_en.pdf" target="_blank">10 Ways</a><br/><br/>
 
       </p>
 
@@ -126,14 +126,14 @@
       </div>
 
       <p>
-        <a href="https://cdc.gov" target="_blank">Center for Disease Control (CDC US)</a><br/><br/>
+        <a class="fa fa-link mr-3" href="https://cdc.gov" target="_blank">Center for Disease Control (CDC US)</a><br/><br/>
 
-        <a href="https://gisanddata.maps.arcgis.com/apps/opsdashboard/index.html?link_uid=33#/bda7594740fd40299423467b48e9ecf6" target="_blank">John Hopkins</a><br/><br/>
+        <a class="fa fa-link mr-3" href="https://gisanddata.maps.arcgis.com/apps/opsdashboard/index.html?link_uid=33#/bda7594740fd40299423467b48e9ecf6" target="_blank">John Hopkins</a><br/><br/>
 
-        <a href="https://ourworldindata.org/grapher/covid-confirmed-cases-since-100th-case" target="_blank">Our World in data</a><br/><br/>
+        <a class="fa fa-link mr-3" href="https://ourworldindata.org/grapher/covid-confirmed-cases-since-100th-case" target="_blank">Our World in data</a><br/><br/>
 
 
-        <a href="https://www.worldometers.info/coronavirus/">Worldometers</a><br/><br/>
+        <a class="fa fa-link mr-3" href="https://www.worldometers.info/coronavirus/">Worldometers</a><br/><br/>
       </p>
 
       <!--

diff --git a/src/pages/resources.html b/src/pages/resources.html
@@ -4,7 +4,7 @@
     <meta charset="UTF-8" />
     <meta name="viewport" content="width=device-width, initial-scale=1.0" />
     <meta http-equiv="X-UA-Compatible" content="ie=edge" />
-    <title>PWAQuill</title>
+    <title>COVID-19</title>
 
     <link rel="stylesheet" href="https://www.w3schools.com/w3css/4/w3.css">
     <link rel="stylesheet" href="https://cdnjs.cloudflare.com/ajax/libs/font-awesome/4.7.0/css/font-awesome.min.css">
@@ -110,14 +110,14 @@
       </div>
 
       <p>
-        <a href="https://www.moph.gov.qa/english/Pages/Coronavirus2019.aspx"> 
-          COVID-19 [English]</a>
+        <a class="fa fa-link mr-3" href="https://www.moph.gov.qa/english/Pages/Coronavirus2019.aspx"> 
+          XXXX YYYY COVID-19 [English]</a>
 
         <a href="https://www.moph.gov.qa/arabic/Pages/Coronavirus2019.aspx"> [Arabic]</a><br/><br/>
 
-        <a href="https://www.moph.gov.qa/english/Documents/english/howtoprotectfromcoviden.pdf" target="_blank">How To Protect From Covid-19</a><br/><br/>
+        <a class="fa fa-link mr-3" href="https://www.moph.gov.qa/english/Documents/english/howtoprotectfromcoviden.pdf" target="_blank">How To Protect From Covid-19</a><br/><br/>
 
-        <a href="https://www.moph.gov.qa/english/Documents/english/10_WAYS_en.pdf" target="_blank">10 Ways</a><br/><br/>
+        <a class="fa fa-link mr-3" href="https://www.moph.gov.qa/english/Documents/english/10_WAYS_en.pdf" target="_blank">10 Ways</a><br/><br/>
 
       </p>
 
@@ -126,14 +126,14 @@
       </div>
 
       <p>
-        <a href="https://cdc.gov" target="_blank">Center for Disease Control (CDC US)</a><br/><br/>
+        <a class="fa fa-link mr-3" href="https://cdc.gov" target="_blank">Center for Disease Control (CDC US)</a><br/><br/>
 
-        <a href="https://gisanddata.maps.arcgis.com/apps/opsdashboard/index.html?link_uid=33#/bda7594740fd40299423467b48e9ecf6" target="_blank">John Hopkins</a><br/><br/>
+        <a class="fa fa-link mr-3" href="https://gisanddata.maps.arcgis.com/apps/opsdashboard/index.html?link_uid=33#/bda7594740fd40299423467b48e9ecf6" target="_blank">John Hopkins</a><br/><br/>
 
-        <a href="https://ourworldindata.org/grapher/covid-confirmed-cases-since-100th-case" target="_blank">Our World in data</a><br/><br/>
+        <a class="fa fa-link mr-3" href="https://ourworldindata.org/grapher/covid-confirmed-cases-since-100th-case" target="_blank">Our World in data</a><br/><br/>
 
 
-        <a href="https://www.worldometers.info/coronavirus/">Worldometers</a><br/><br/>
+        <a class="fa fa-link mr-3" href="https://www.worldometers.info/coronavirus/">Worldometers</a><br/><br/>
       </p>
 
       <!--

diff --git a/src/index.js b/src/index.js
@@ -64,7 +64,7 @@ class PWAConfApp {
     // Add speaker details to array
     this.faq = rawFaq.map(this.addSpeakerDetails, this);
     this.faqDiv.innerHTML = this.faq
-      .map(this.toScheduleBlock)
+      .map(this.toFaqBlock)
       .join('\n');
   }
 
@@ -76,8 +76,29 @@ class PWAConfApp {
   getJSON('https://raw.githubusercontent.com/syedpeer/MyFiles/master/schedule.json', info => console.log(info.title));
   */
 
+  //
+  // Freq. Asked Questions
+  //
+  toFaqBlock(faqItem) {
+    return `
+      <div class="schedule-item ${faqItem.category}">
+        <div class="title-and-time">
+          <div class="faqnumber">${faqItem.faqNum}</div>
+          <div class="title-and-speaker">
+            <div class="title">${faqItem.title}</div>
+            <div class="speaker">${
+              faqItem.speaker ? faqItem.speaker.name : '&nbsp;'
+            }</div>
+          </div>
+        </div>
+        <p class="description">${faqItem.description}</p>
+      </div>
+    `;
+  }
 
-
+  //
+  // Schedule details
+  //
   toSpeakerBlock(speaker) {
     return `
         <div class="speaker">

diff --git a/dist/pages/news.js b/dist/pages/news.js
@@ -103,6 +103,7 @@ customElements.define("news-list", class extends HTMLElement {
                     ${story.title}
                   </div>
                   <div class="story__source">
+                    <br/>
                     Source: ${story.source.name}
                   </div>
                   <img src="" />

diff --git a/src/pages/news.js b/src/pages/news.js
@@ -103,6 +103,7 @@ customElements.define("news-list", class extends HTMLElement {
                     ${story.title}
                   </div>
                   <div class="story__source">
+                    <br/>
                     Source: ${story.source.name}
                   </div>
                   <img src="" />

diff --git a/dist/css/styles.css b/dist/css/styles.css
@@ -232,6 +232,13 @@ h2 {
   padding-top: 2px;
 }
 
+.faqnumber {
+  font-size: 1.5em;
+  font-weight: 600;
+  padding-top: 2px;
+  color: red;
+}
+
 .title-and-speaker {
   flex: 1;
   padding-left: var(--spacing);

diff --git a/dist/main.css b/dist/main.css
@@ -232,6 +232,13 @@ h2 {
   padding-top: 2px;
 }
 
+.faqnumber {
+  font-size: 1.5em;
+  font-weight: 600;
+  padding-top: 2px;
+  color: red;
+}
+
 .title-and-speaker {
   flex: 1;
   padding-left: var(--spacing);
